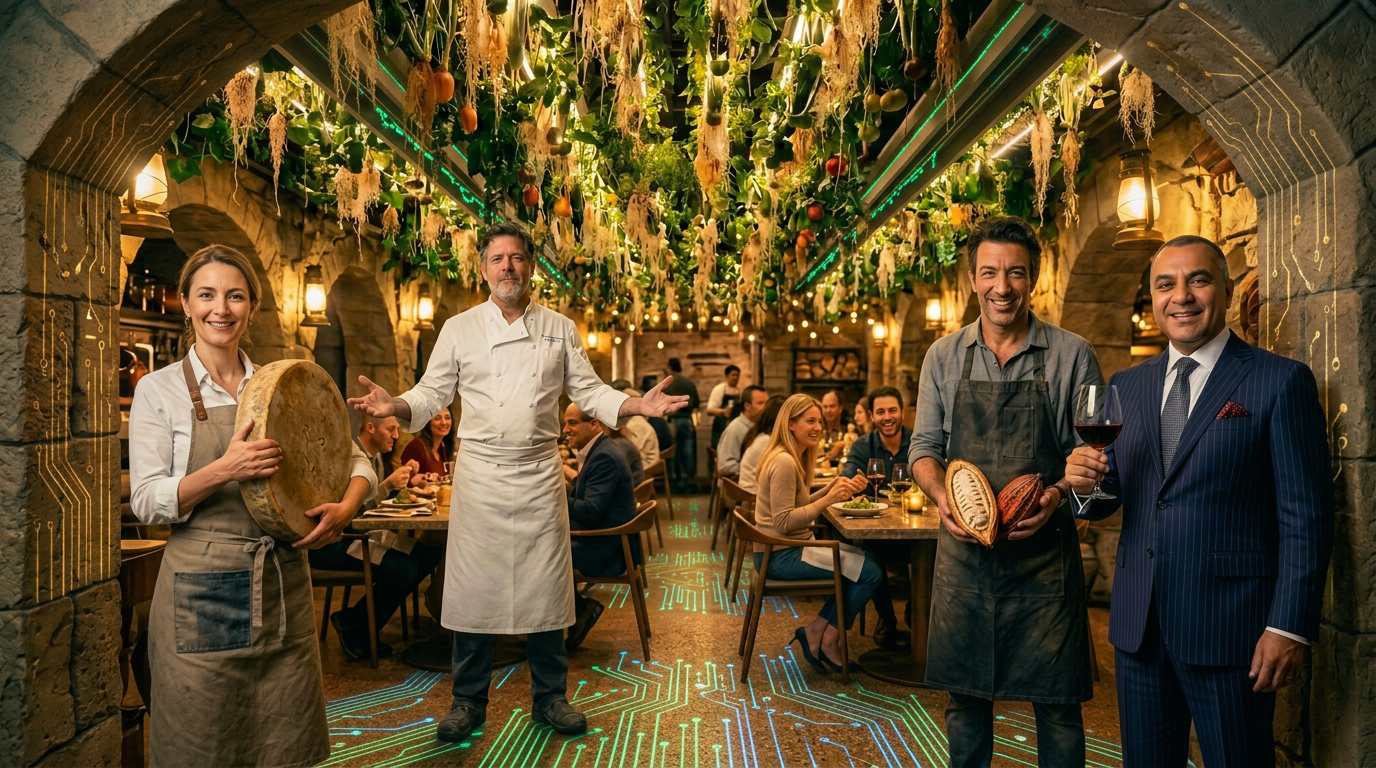
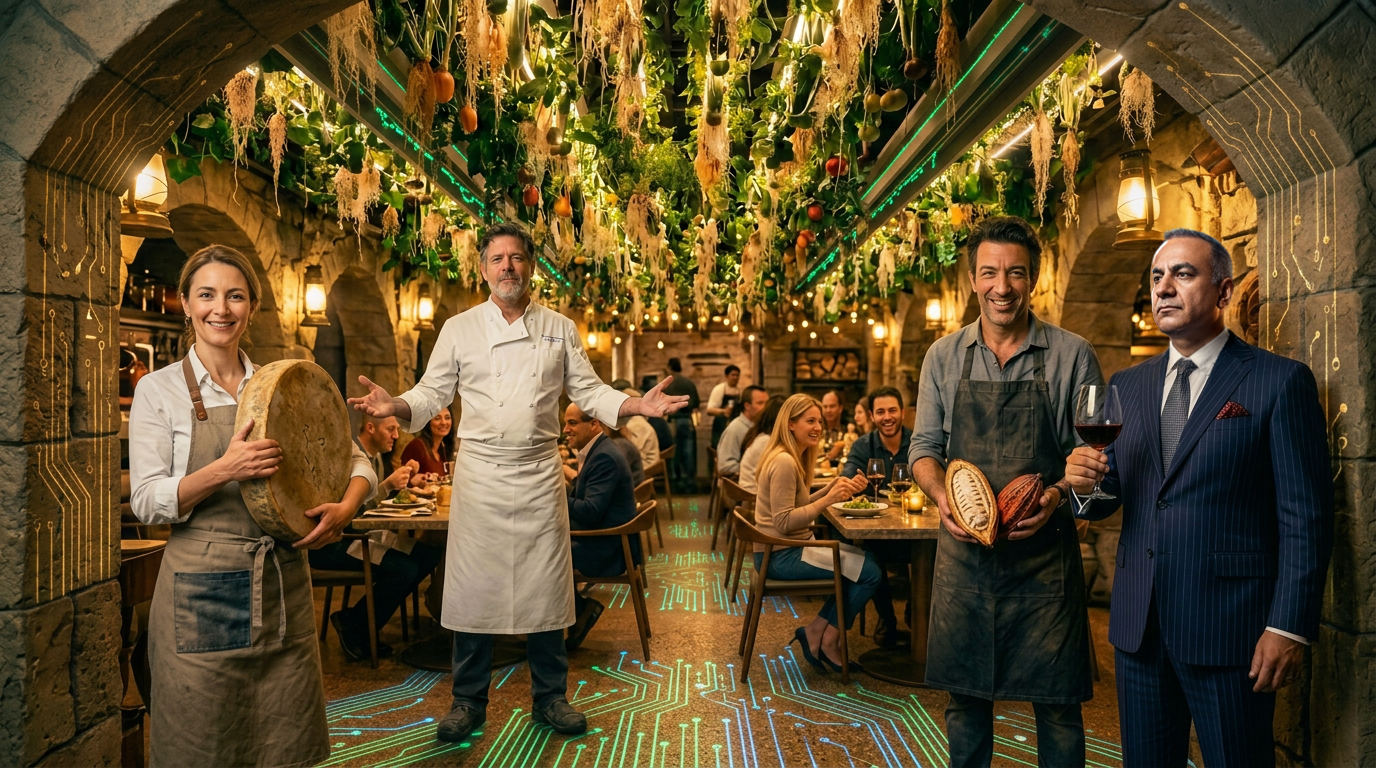
Restaurant: Vic Stallion stands alone + new hero image
Vic card bio no longer references Dr. Vikram Sethi; he is Vic Stallion on the restaurant page.
Replace harvest-circuit-hero.png with updated image.

Changed region(s): [[0.8125, 0.2812, 0.9062, 0.5]]

diff --git a/restaurant.html b/restaurant.html
@@ -205,7 +205,7 @@
         <div class="nm">Vic Stallion</div>
         <div class="rl">Sommelier &middot; the pour</div>
         <div class="og">Super Tuscan devotee</div>
-        <div class="hook">Dr. Vikram Sethi's cellar self. Names the bottle for any dish and defends Bolgheri to the last drop. Carries the live <b>wine-data</b> backpack.</div>
+        <div class="hook">Names the bottle for any dish and defends Bolgheri to the last drop. Carries the live <b>wine-data</b> backpack.</div>
         <button class="talk" data-name="Vic" type="button">Talk to Vic</button>
       </div>
     </div>
